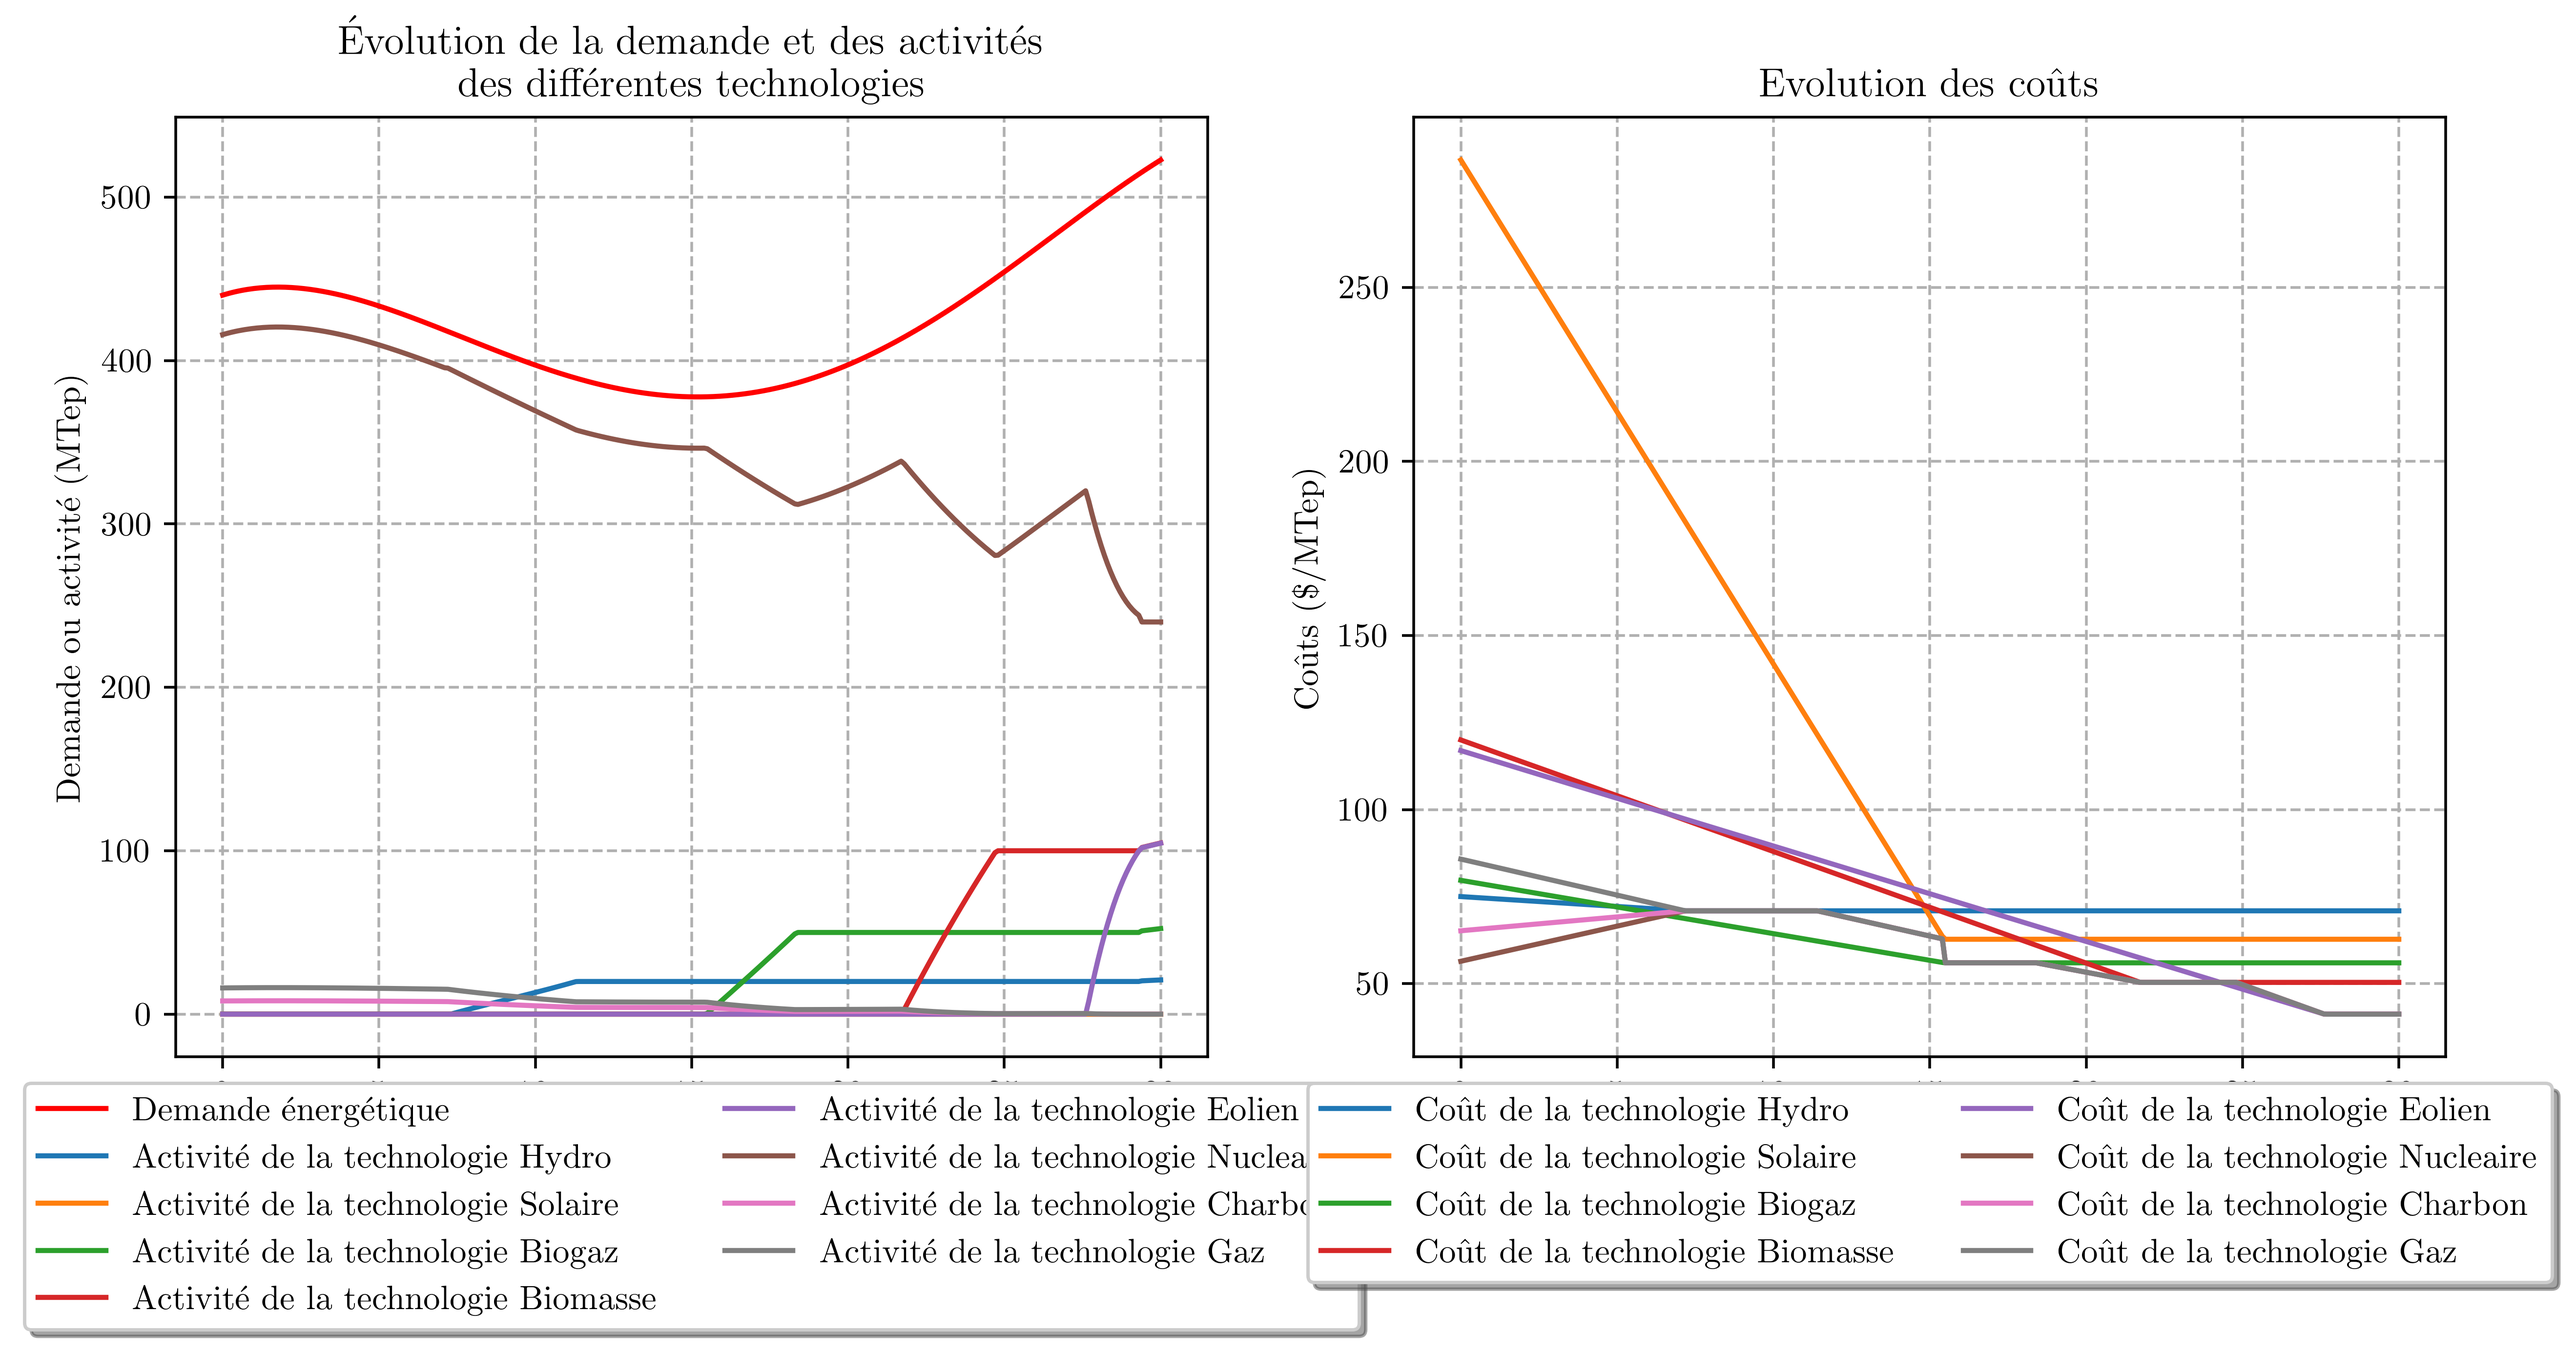
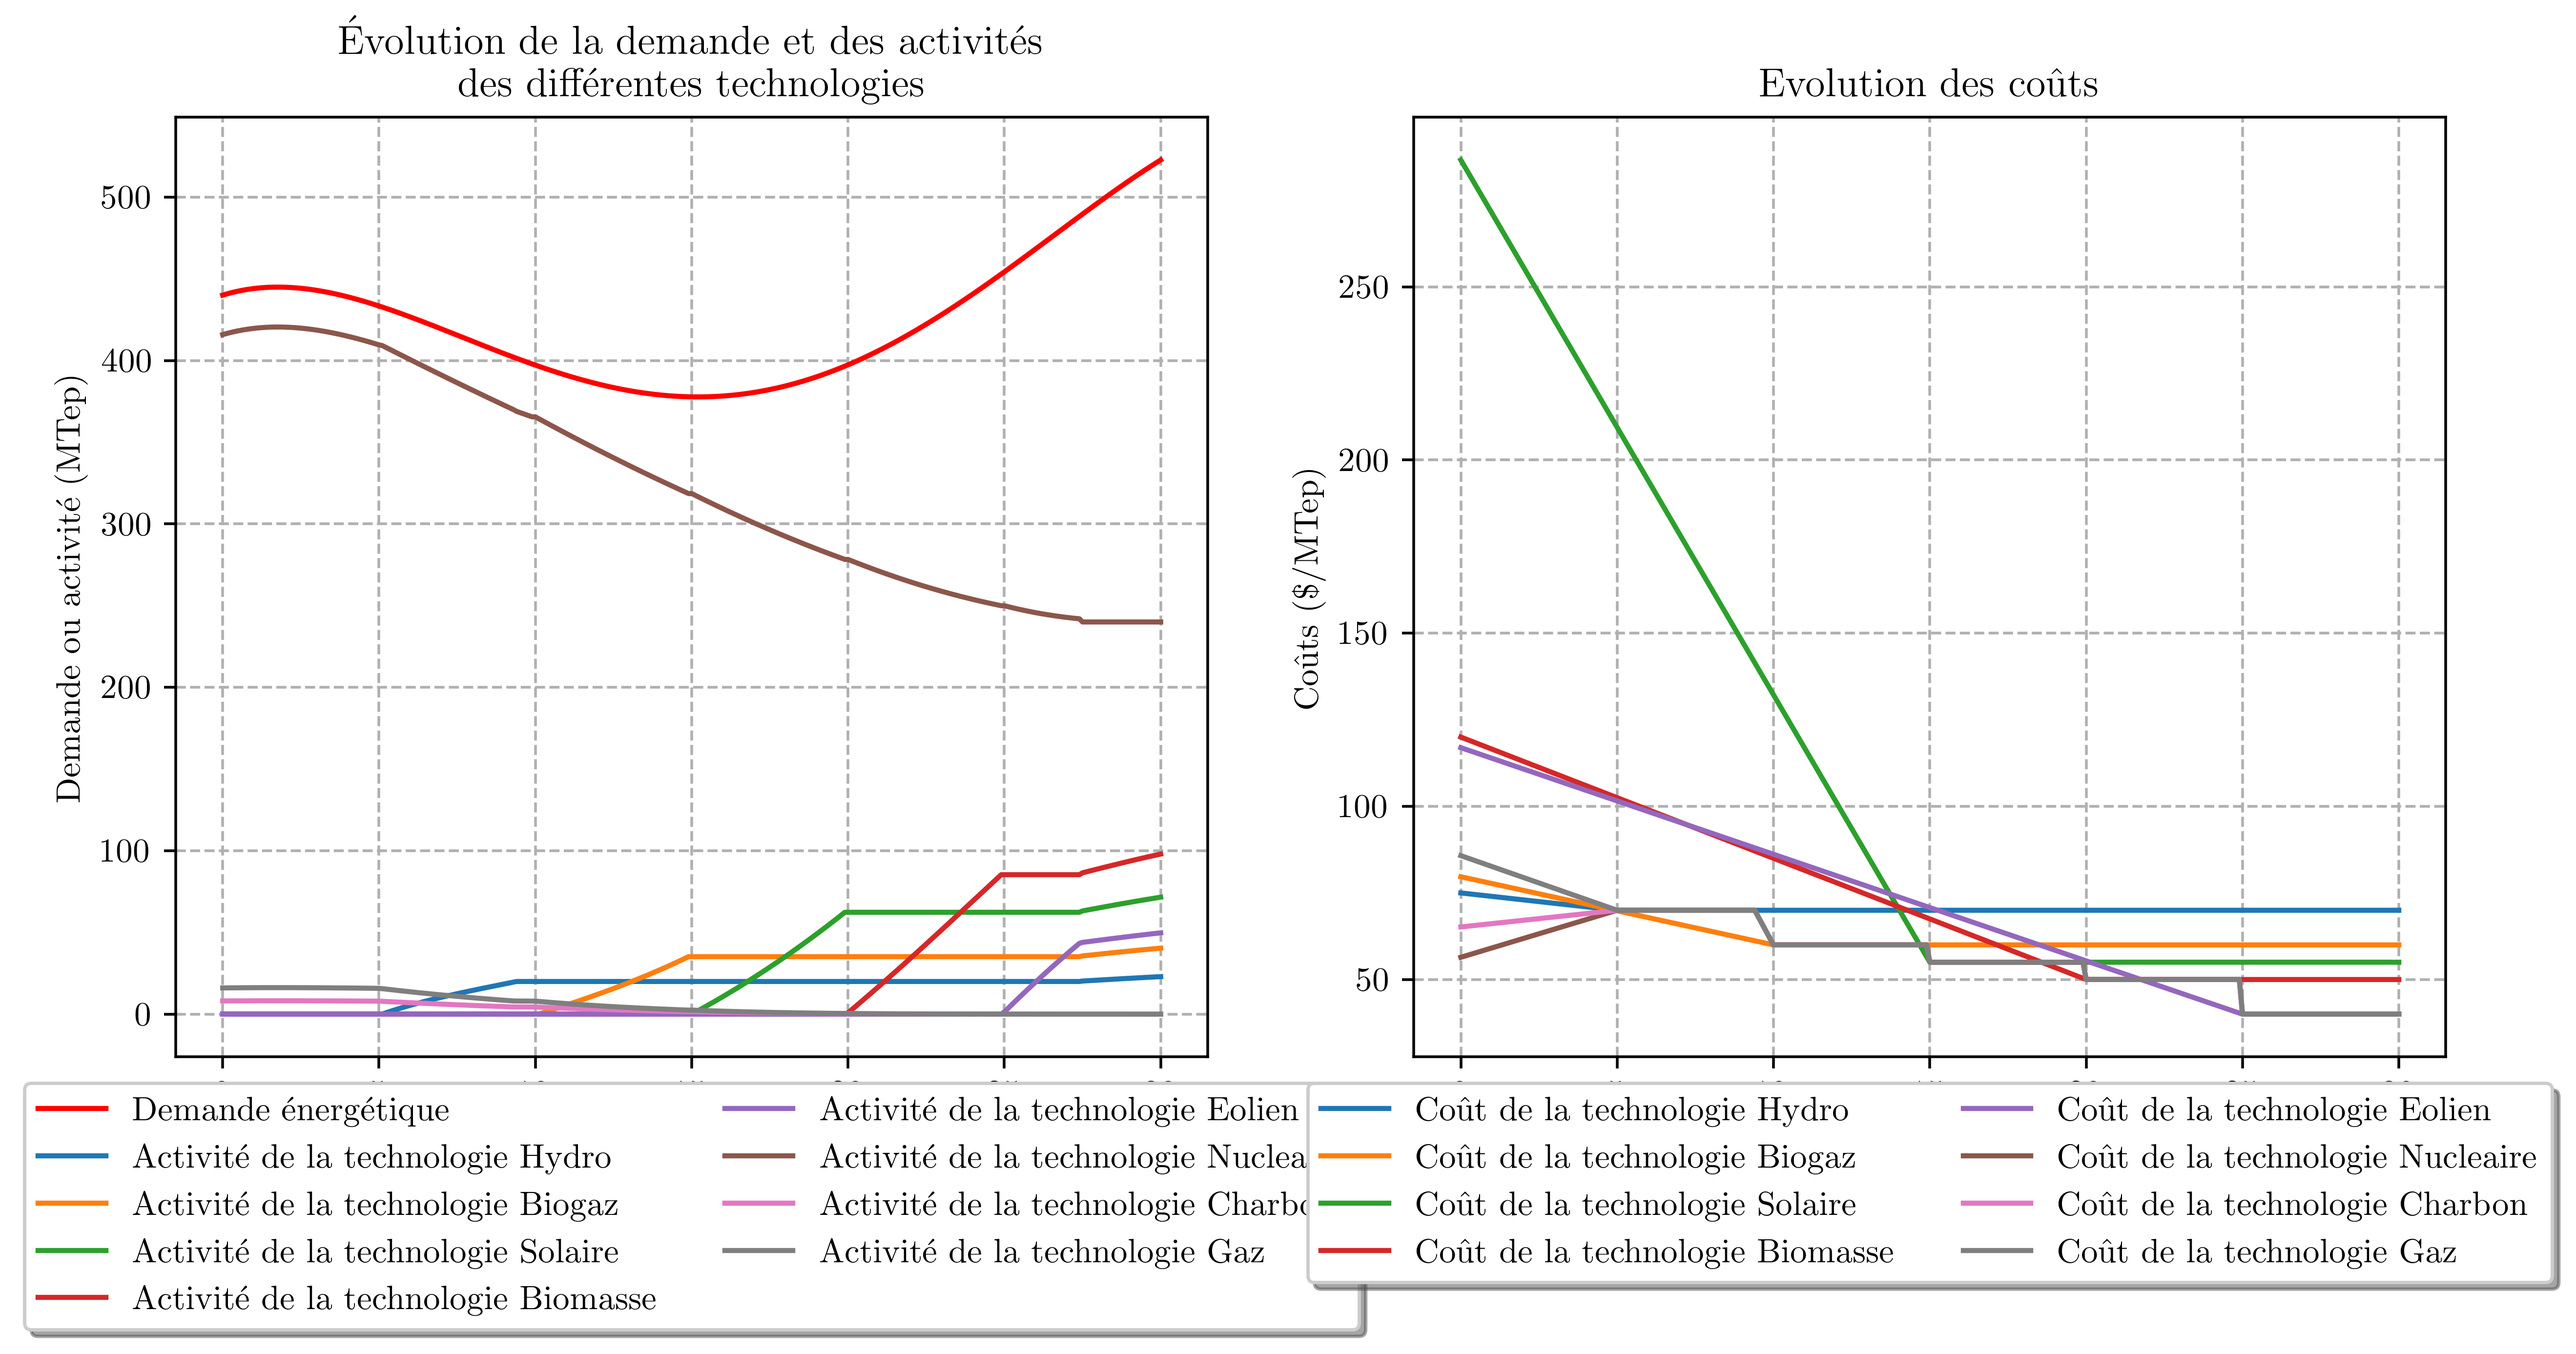
Multiprocessing - Debug

diff --git a/N_techno/Parametres.py b/N_techno/Parametres.py
@@ -3,18 +3,18 @@ import numpy as np
 # Paramètres globaux
 T_life = [30, 30, 30]#, 60]   # durées de vie des techno carbonées
 demande_ini = 440   # demande énergétique
-X_j = [20, 1000, 50, 100, 1000] # productions maximales des techno décarbonées
+X_j = [20, 50, 1000, 100, 1000] # productions maximales des techno décarbonées
 X_jF = [240, 0.01, 0.01] # valeurs finales des techno carbonées
 
-X_j_0 = [62, 6, 0, 2, 17] # productions initiales des technos décarbonées
+X_j_0 = [62, 0, 6, 2, 17] # productions initiales des technos décarbonées
 ci_car = [56.42, 65.18, 85.77] # coûts initiaux (variables) des techno carbonées
 
 p_0 = [0.9451, 0.0184, 0.0365] # part des technologies carbonées dans le mix initial
 p_1 = [0.9451, 0.0184, 0.0365] # part des technologies carbonées dans le mix initial
 
-ci_decar = [75, 286.62, 79.67, 120, 116.945] # coûts initiaux des techno décarbonées
+ci_decar = [75, 79.67, 286.62, 120, 116.945] # coûts initiaux des techno décarbonées
 
-type_dec = ['Hydro', 'Solaire', 'Biogaz', 'Biomasse', 'Eolien']
+type_dec = ['Hydro', 'Biogaz', 'Solaire', 'Biomasse', 'Eolien']
 type_car = ['Nucleaire', 'Charbon', 'Gaz']
 
 beta_car = [0, 0, 0]
@@ -26,7 +26,7 @@ m = len(type_dec) # nombre total de technologies décarbonées
 # Limites
 b2 = (1, 10000)   # Limites de C
 b3 = (1, 10000)    # Limites de K
-b1 = (1, min(T_life) - 0.01)    # Limites de T_i
+b1 = (1, min(T_life))    # Limites de T_i
 
 
 # Valeurs initiales

diff --git a/N_techno/Methodes.py b/N_techno/Methodes.py
@@ -51,6 +51,14 @@ class Methodes :
         res = out + 'Emissions de la solution = ' + str(int(budget)) + '\n'
         res = res + 'Surcout : ' + str(int(surcout)) + '\n'
 
+        if(contraintes.check_contr(x) == False) :
+            budget = 1000000000
+            surcout = 1000000000
+            res = res + 'Contraintes non respectées \n'
+
+        else :
+            res = res + 'Contraintes respectées \n'
+
         return budget, surcout, x, res
 
     def methode_emissions(self, ci, xj) :
@@ -88,5 +96,13 @@ class Methodes :
 
         res = out + 'Emissions de la solution = ' + str(int(budget)) + '\n'
         res = res + 'Surcout : ' + str(int(surcout)) + '\n'
+
+        if (contraintes.check_contr(x) == False):
+            budget = 1000000000
+            surcout = 1000000000
+            res = res + 'Contraintes non respectées \n'
+
+        else:
+            res = res + 'Contraintes respectées \n'
 
         return budget, surcout, x, res

diff --git a/N_techno/Cinetique.py b/N_techno/Cinetique.py
@@ -2,7 +2,8 @@ import scipy.integrate as integrate
 from Parametres import *
 from scipy.optimize import fsolve
 import math
-
+import warnings
+warnings.filterwarnings("error")
 
 # Cinétique à la ligne de transition (entre t_1 et t_car)
 
@@ -167,7 +168,11 @@ class Cinetique:
     def x_car_ligne(self, t, x, j, i):
         if(t <= T_life[j]):
             x_ini = self.x_car_ini[j]
+            if(x[i] >= T_life[j]) :
+                x[i] = T_life[j] - 0.01
+
             return (x_ini - X_jF[j]) * ((T_life[j] - t) / (T_life[j] - x[i])) ** (x[2*m + j] / x[m + i]) + X_jF[j]
+
 
         return X_jF[j]
 

diff --git a/N_techno/Main_local.py b/N_techno/Main_local.py
@@ -93,7 +93,7 @@ for k in range(m):
     X_j0bis[k] = X_j_0[sigma[index_min][k]]
 
 
-temps, [techno_dec, techno_car], [taxes_decar, taxes_carb], [c_nat_decar, c_nat_carb], demande = Calcul_trajectoire(x0, ci_decar_bis, X_jbis).tableau_evol()
+temps, [techno_dec, techno_car], [taxes_decar, taxes_carb], [c_nat_decar, c_nat_carb], demande = Calcul_trajectoire(x, ci_decar_bis, X_jbis).tableau_evol()
 
 ordre_dec = []
 for k in range(m):

diff --git a/N_techno/Contraintes.py b/N_techno/Contraintes.py
@@ -13,3 +13,12 @@ class Contraintes:
             return fonction(x) - mini
 
         self.contr.append({'type' : type, 'fun' : fonc_contrainte})
+
+
+    def check_contr(self, x):
+        for elem in self.contr :
+            if(elem['fun'](x) < 0):
+                return False
+
+        return True
+
